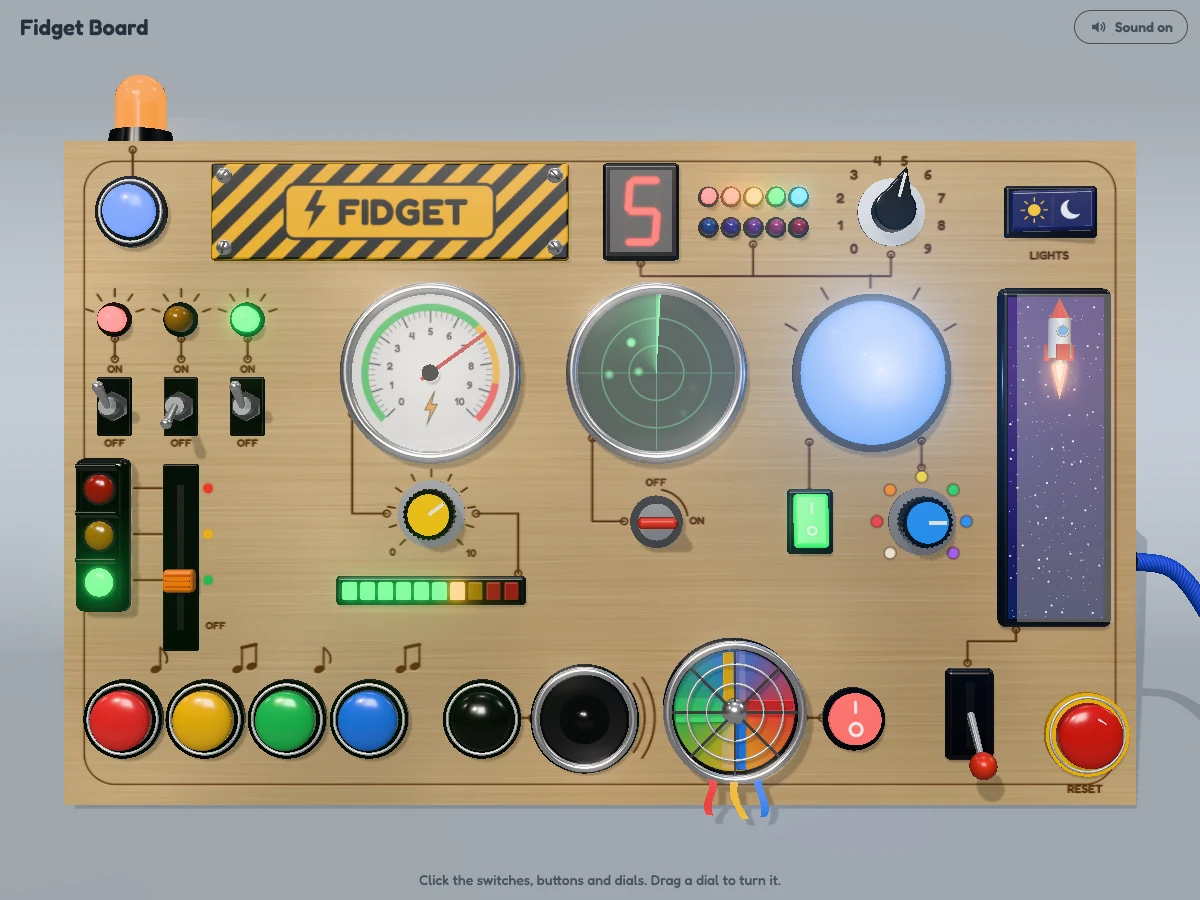
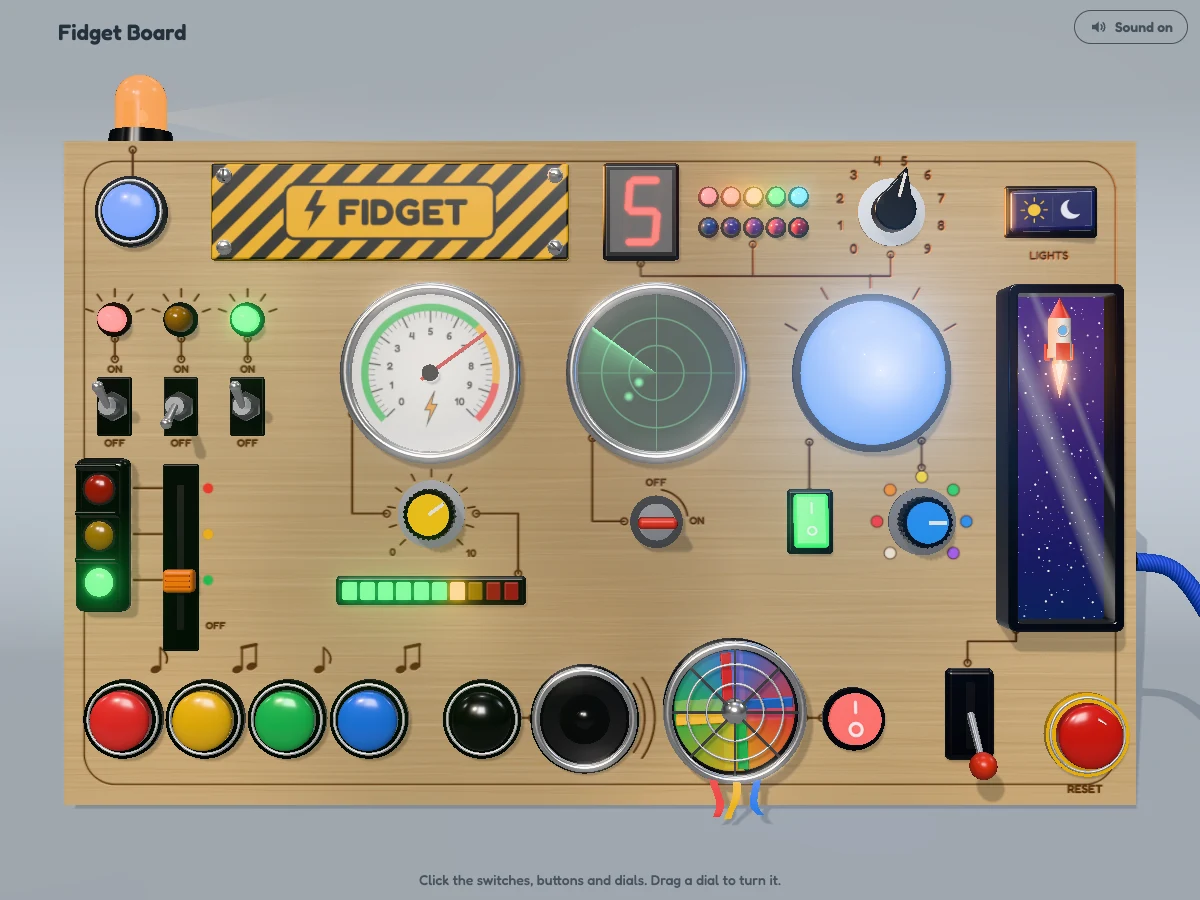
Fix the Fidget Board rocket window's floating grey glass
The glass pane hovered 1.3 units in front of a 0.6-deep frame so the
rocket could fit behind it; at the camera's angle it slid off the
opening and its white diffuse colour lit up into a flat grey veil over
the starfield. The window is now a deep bevelled shadow box with the
rocket inside and the glass seated flush in the bezel, drawn as two
soft diagonal glints (an alpha map) that dim at night instead of a
white sheet. Preview re-captured.

diff --git a/fidget/index.html b/fidget/index.html
@@ -208,6 +208,17 @@ const G = {
   dome: (r, seg = 32) => new THREE.SphereGeometry(r, seg, seg / 2, 0, TAU, 0, Math.PI / 2).rotateX(Math.PI / 2),
   rbox: (w, h, d, r = 0.12, s = 3) => new RoundedBoxGeometry(w, h, d, s, Math.min(r, w / 2, h / 2, d / 2)).translate(0, 0, d / 2),
   torus: (r, t, seg = 64) => new THREE.TorusGeometry(r, t, 12, seg),
+  // A deep picture-frame bezel: a rounded w×h slab of depth d with an iw×ih opening, edges softly bevelled.
+  frame(w, h, iw, ih, d, r = 0.35, ri = 0.12) {
+    const b = 0.06, rr = (s, W, H, R) => {
+      const x = -W / 2, y = -H / 2;
+      s.moveTo(x + R, y); s.lineTo(x + W - R, y); s.quadraticCurveTo(x + W, y, x + W, y + R); s.lineTo(x + W, y + H - R);
+      s.quadraticCurveTo(x + W, y + H, x + W - R, y + H); s.lineTo(x + R, y + H); s.quadraticCurveTo(x, y + H, x, y + H - R); s.lineTo(x, y + R); s.quadraticCurveTo(x, y, x + R, y);
+    };
+    const shape = new THREE.Shape(), hole = new THREE.Path();
+    rr(shape, w - 2 * b, h - 2 * b, r - b); rr(hole, iw + 2 * b, ih + 2 * b, ri + b); shape.holes.push(hole);
+    return new THREE.ExtrudeGeometry(shape, { depth: d - 2 * b, bevelEnabled: true, bevelThickness: b, bevelSize: b, bevelSegments: 3, curveSegments: 8 }).translate(0, 0, b);
+  },
   knurl(r, h, ridges = 30) {
     const g = new THREE.CylinderGeometry(r, r, h, ridges * 2, 1).rotateX(Math.PI / 2).translate(0, 0, h / 2), p = g.attributes.position;
     for (let i = 0; i < p.count; i++) {
@@ -594,10 +605,20 @@ function beacon(x) {
   const target = new THREE.Object3D(); target.position.set(10, -0.8, 0); spin.add(spot, target); spot.target = target;
   return { spin, lampMat, bulbMat, spot, beamU, angle: 0, level: 0 };
 }
-// The rocket window: a starry sky drawn by a shader, a little rocket, its flame and smoke.
+// Soft diagonal glare for the rocket window's glass (an alpha map: white = glare).
+const glareTex = canvasTex(128, 384, (c, W, H) => {
+  c.fillStyle = '#000'; c.fillRect(0, 0, W, H); c.translate(W / 2, H * 0.42); c.rotate(-0.42);
+  for (const [x, w, a] of [[-22, 38, 0.9], [26, 14, 0.6]]) {
+    const gr = c.createLinearGradient(x - w / 2, 0, x + w / 2, 0);
+    gr.addColorStop(0, 'rgba(255,255,255,0)'); gr.addColorStop(0.5, `rgba(255,255,255,${a})`); gr.addColorStop(1, 'rgba(255,255,255,0)');
+    c.fillStyle = gr; c.fillRect(x - w / 2, -H, w, H * 2);
+  }
+}, false);
+// The rocket window: a deep shadow box with a starry sky drawn by a shader at the back, a little rocket,
+// its flame and smoke inside, and glass across the front of the bezel.
 function rocketWindow([x, y, w, h]) {
   const g = place([x, y]), U = { uScroll: { value: 0 }, uTime: { value: 0 }, uSize: { value: new THREE.Vector2(w - 0.7, h - 0.7) } };
-  g.add(mesh(G.rbox(w, h, 0.6, 0.35), MAT.gloss));
+  g.add(mesh(G.rbox(w, h, 0.6, 0.35), MAT.gloss), mesh(G.frame(w, h, w - 0.7, h - 0.7, 2.1), MAT.gloss));
   g.add(mesh(new THREE.PlaneGeometry(w - 0.7, h - 0.7), new THREE.ShaderMaterial({ uniforms: U,
     vertexShader: 'varying vec2 vUv; void main() { vUv = uv; gl_Position = projectionMatrix * modelViewMatrix * vec4(position, 1.0); }',
     fragmentShader: /* glsl */`
@@ -631,7 +652,7 @@ function rocketWindow([x, y, w, h]) {
     new THREE.MeshBasicMaterial({ color: c, transparent: true, opacity: op, blending: THREE.AdditiveBlending, depthWrite: false, side: THREE.DoubleSide }));
   flame.add(fm(new THREE.Color(3, 1.2, 0.25), 0.3, 1.0, 0.85), fm(new THREE.Color(3, 2.6, 1.4), 0.16, 0.6, 0.9));
   const glow = new THREE.PointLight('#ffae4a', 0, 7, 2); glow.position.y = -1.3; rocket.add(glow);
-  g.add(mesh(new THREE.PlaneGeometry(w - 0.7, h - 0.7), MAT.glass, 0, 0, 1.9, false));
+  g.add(mesh(new THREE.PlaneGeometry(w - 0.7, h - 0.7), new THREE.MeshStandardMaterial({ color: '#ffffff', alphaMap: glareTex, transparent: true, opacity: 0.24, roughness: 0.3, depthWrite: false }), 0, 0, 2.0, false));
   const puffTex = canvasTex(64, 64, (c) => { const gr = c.createRadialGradient(32, 32, 0, 32, 32, 32); gr.addColorStop(0, 'rgba(255,255,255,.9)'); gr.addColorStop(1, 'rgba(255,255,255,0)'); c.fillStyle = gr; c.fillRect(0, 0, 64, 64); });
   const puffs = Array.from({ length: 10 }, () => { const s = new THREE.Sprite(new THREE.SpriteMaterial({ map: puffTex, transparent: true, opacity: 0, depthWrite: false })); s.position.z = 1.3; g.add(s); return { s, t: 9, vx: 0 }; });
   const yMin = -h / 2 + 1.95, yMax = h / 2 - 2.1;
